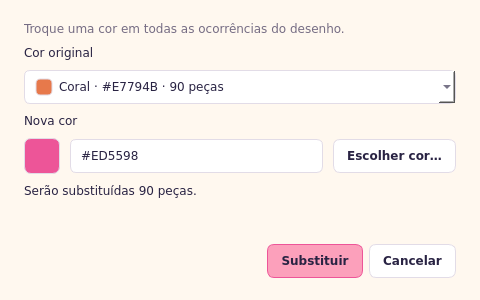
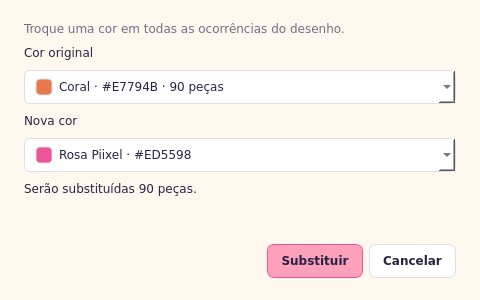
Usa dropdown de cores salvas como destino em Substituir cor
Nova cor agora oferece toda a paleta padrão e as cores personalizadas salvas, com nome, hexadecimal e amostra. A última opção permite escolher uma cor personalizada; cancelar o seletor restaura a seleção anterior e novas escolhas não são salvas automaticamente. A lista da cor original mantém cores e quantidades usadas no desenho.

Atualiza documentação e prévia do diálogo. Validação: 108 testes aprovados e fluxo real do popup pelo teclado, com troca e desfazer.

Changed region(s): [[0.0312, 0.45, 0.9688, 0.66]]

diff --git a/tests/test_paint_tools.py b/tests/test_paint_tools.py
@@ -10,11 +10,12 @@ import unittest
 from unittest.mock import patch
 
 from PySide6.QtCore import QPoint, QRect, Qt
+from PySide6.QtGui import QColor
 from PySide6.QtTest import QTest
 from PySide6.QtWidgets import QApplication, QDialog
 
 from piixelverso.app import MainWindow
-from piixelverso.atelier import AtelierModule, STYLE
+from piixelverso.atelier import AtelierModule, PALETTE, STYLE
 from piixelverso.format import encode_design, load_design
 from piixelverso.model import PixelDesign
 from piixelverso.preferences import PreferencesStore
@@ -80,6 +81,14 @@ class PaintToolsTests(unittest.TestCase):
         self.window.canvas.setFocus()
         self.app.processEvents()
         QTest.keyClick(self.window.canvas, key, modifiers)
+        self.app.processEvents()
+
+    def activate_custom_target(self, dialog):
+        index = dialog.target_combo.findText("Escolher cor personalizada…")
+        self.assertGreaterEqual(index, 0)
+        self.assertEqual(index, dialog.target_combo.count() - 1)
+        dialog.target_combo.setCurrentIndex(index)
+        dialog.target_combo.activated.emit(index)
         self.app.processEvents()
 
     def assert_counts(self, expected):
@@ -258,11 +267,12 @@ class PaintToolsTests(unittest.TestCase):
             self.assertGreaterEqual(source_index, 0)
             dialog.source_combo.setCurrentIndex(source_index)
             self.assertIn("3", dialog.preview_label.text())
-            dialog.target_edit.setText("inválida")
+            self.assertFalse(dialog.target_combo.isEditable())
+            dialog.target_combo.setCurrentIndex(-1)
             self.assertFalse(dialog.replace_button.isEnabled())
-            dialog.target_edit.setText(SOURCE)
+            dialog.target_combo.setCurrentIndex(dialog.target_combo.findData(SOURCE))
             self.assertFalse(dialog.replace_button.isEnabled())
-            dialog.target_edit.setText(TARGET.lower())
+            dialog.target_combo.setCurrentIndex(dialog.target_combo.findData(TARGET))
             self.app.processEvents()
             self.assertTrue(dialog.replace_button.isEnabled())
             self.assertEqual(dialog.source_color(), SOURCE)
@@ -283,11 +293,17 @@ class PaintToolsTests(unittest.TestCase):
         before = encode_design(self.window.design)
         palette = set(self.window._swatches)
         dialogs = []
+        chosen = []
 
         def cancel_dialog(dialog):
             dialogs.append(dialog)
             dialog.show()
-            dialog.target_edit.setText("#123ABC")
+            with patch("piixelverso.replace.QColorDialog.getColor",
+                       return_value=QColor("#123ABC")) as picker:
+                self.activate_custom_target(dialog)
+                picker.assert_called_once()
+            self.assertEqual(dialog.target_color(), "#123ABC")
+            chosen.append(dialog.target_color())
             self.app.processEvents()
             QTest.keyClick(dialog, Qt.Key.Key_Escape)
             self.app.processEvents()
@@ -299,10 +315,135 @@ class PaintToolsTests(unittest.TestCase):
                              Qt.MouseButton.LeftButton)
             self.app.processEvents()
         self.assertEqual(len(dialogs), 1)
+        self.assertEqual(chosen, ["#123ABC"])
         self.assertEqual(encode_design(self.window.design), before)
         self.assertEqual(set(self.window._swatches), palette)
         self.assertEqual(self.window.history.count(), 0)
         self.assertTrue(self.window.history.isClean())
+        self.assertFalse(self.settings_path.exists())
+
+    def test_target_dropdown_includes_the_palette_and_saved_custom_colors_unused_in_the_design(self):
+        named, unnamed = "#08AA22", "#5B51CC"
+        name = "<b>Verde & folhas</b> " + "muito longo " * 5
+        name = name[:80]
+        self.window.add_custom_color(named, name=name, persist=True)
+        self.window.add_custom_color(unnamed, persist=True)
+        self.window.add_custom_color("#112233")
+        saved = self.settings_path.read_bytes()
+        original = self.set_design(["SS.U", "S..."], {"U": "#334455"})
+        self.window.select_color(TARGET)
+        dialogs = []
+
+        def accept_saved_target(dialog):
+            dialogs.append(dialog)
+            dialog.show()
+            self.app.processEvents()
+            self.assertFalse(dialog.target_combo.isEditable())
+            self.assertEqual(dialog.target_color(), TARGET)
+            sources = {dialog.source_combo.itemData(i) for i in range(dialog.source_combo.count())}
+            self.assertEqual(sources, {SOURCE, "#334455"})
+            self.assertEqual(dialog.source_color(), SOURCE)
+            self.assertIn("3 peças", dialog.source_combo.currentText())
+            for label, color in PALETTE:
+                with self.subTest(color=color):
+                    index = dialog.target_combo.findData(color)
+                    self.assertGreaterEqual(index, 0)
+                    self.assertIn(label, dialog.target_combo.itemText(index))
+                    self.assertIn(color, dialog.target_combo.itemText(index))
+                    self.assertFalse(dialog.target_combo.itemIcon(index).isNull())
+            named_index = dialog.target_combo.findData(named)
+            self.assertGreaterEqual(named_index, 0)
+            self.assertIn(named, dialog.target_combo.itemText(named_index))
+            tooltip = dialog.target_combo.itemData(named_index, Qt.ItemDataRole.ToolTipRole)
+            self.assertIn("&lt;b&gt;Verde &amp; folhas&lt;/b&gt;", tooltip)
+            self.assertLessEqual(dialog.width(), 600)
+            unnamed_index = dialog.target_combo.findData(unnamed)
+            self.assertGreaterEqual(unnamed_index, 0)
+            self.assertIn(unnamed, dialog.target_combo.itemText(unnamed_index))
+            self.assertEqual(dialog.target_combo.findData("#112233"), -1)
+            self.assertEqual(dialog.target_combo.findData("#334455"), -1)
+            dialog.target_combo.setCurrentIndex(named_index)
+            self.assertTrue(dialog.replace_button.isEnabled())
+            QTest.mouseClick(dialog.replace_button, Qt.MouseButton.LeftButton)
+            self.app.processEvents()
+            return dialog.result()
+
+        with patch("piixelverso.atelier.ReplaceColorDialog.exec", new=accept_saved_target):
+            self.key(Qt.Key.Key_H, Qt.KeyboardModifier.ControlModifier)
+        self.assertEqual(len(dialogs), 1)
+        self.assert_counts({named: 3, "#334455": 1})
+        self.assertEqual(self.window.history.count(), 1)
+        self.assertEqual(self.settings_path.read_bytes(), saved)
+        self.window.undo()
+        self.assertEqual(self.window.design, original)
+        self.assertTrue(self.window.history.isClean())
+
+    def test_canceling_the_custom_target_picker_restores_the_previous_dropdown_choice(self):
+        self.set_design(["SS.T", "S..."])
+        self.window.select_color(TARGET)
+        before = encode_design(self.window.design)
+        palette = set(self.window._swatches)
+        dialogs = []
+        restored = []
+
+        def cancel_picker_then_dialog(dialog):
+            dialogs.append(dialog)
+            dialog.show()
+            self.app.processEvents()
+            original_source = dialog.source_color()
+            original_target = dialog.target_color()
+            with patch("piixelverso.replace.QColorDialog.getColor",
+                       return_value=QColor()) as picker:
+                self.activate_custom_target(dialog)
+                picker.assert_called_once()
+            self.assertEqual(dialog.source_color(), original_source)
+            self.assertEqual(dialog.target_color(), original_target)
+            self.assertEqual(dialog.target_combo.currentData(), TARGET)
+            self.assertTrue(dialog.replace_button.isEnabled())
+            restored.append(dialog.target_color())
+            dialog.reject()
+            return dialog.result()
+
+        with patch("piixelverso.atelier.ReplaceColorDialog.exec", new=cancel_picker_then_dialog):
+            self.key(Qt.Key.Key_H, Qt.KeyboardModifier.ControlModifier)
+        self.assertEqual(len(dialogs), 1)
+        self.assertEqual(restored, [TARGET])
+        self.assertEqual(encode_design(self.window.design), before)
+        self.assertEqual(set(self.window._swatches), palette)
+        self.assertEqual(self.window.history.count(), 0)
+        self.assertFalse(self.settings_path.exists())
+
+    def test_custom_target_can_choose_an_existing_color_without_duplicate_entries(self):
+        self.set_design(["SS.T", "S..."])
+        self.window.select_color(SOURCE)
+        dialogs = []
+
+        def choose_existing_target(dialog):
+            dialogs.append(dialog)
+            dialog.show()
+            self.app.processEvents()
+            self.assertFalse(dialog.replace_button.isEnabled())
+            original_count = dialog.target_combo.count()
+            with patch("piixelverso.replace.QColorDialog.getColor",
+                       return_value=QColor(TARGET.lower())) as picker:
+                self.activate_custom_target(dialog)
+                picker.assert_called_once()
+            self.assertEqual(dialog.target_combo.count(), original_count)
+            self.assertEqual(sum(dialog.target_combo.itemData(i) == TARGET
+                                 for i in range(dialog.target_combo.count())), 1)
+            self.assertEqual(dialog.source_color(), SOURCE)
+            self.assertEqual(dialog.target_color(), TARGET)
+            self.assertTrue(dialog.replace_button.isEnabled())
+            QTest.mouseClick(dialog.replace_button, Qt.MouseButton.LeftButton)
+            self.app.processEvents()
+            return dialog.result()
+
+        with patch("piixelverso.atelier.ReplaceColorDialog.exec", new=choose_existing_target):
+            self.key(Qt.Key.Key_H, Qt.KeyboardModifier.ControlModifier)
+        self.assertEqual(len(dialogs), 1)
+        self.assert_counts({TARGET: 4})
+        self.assertEqual(self.window.history.count(), 1)
+        self.assertFalse(self.settings_path.exists())
 
     def test_g_selects_the_bucket_exclusively_without_stealing_the_design_name(self):
         for key, tool in ((Qt.Key.Key_G, "bucket"), (Qt.Key.Key_B, "pencil"),

diff --git a/piixelverso/replace.py b/piixelverso/replace.py
@@ -7,8 +7,8 @@ from html import escape
 from PySide6.QtCore import QSize, Qt
 from PySide6.QtGui import QColor, QIcon, QPainter, QPen, QPixmap
 from PySide6.QtWidgets import (
-    QColorDialog, QComboBox, QDialog, QDialogButtonBox, QHBoxLayout,
-    QLabel, QLineEdit, QPushButton, QSizePolicy, QVBoxLayout,
+    QColorDialog, QComboBox, QDialog, QDialogButtonBox,
+    QLabel, QSizePolicy, QVBoxLayout,
 )
 
 from .model import PixelDesign, normalize_color
@@ -19,7 +19,8 @@ class ReplaceColorDialog(QDialog):
     """Collect RGB colors; the editor applies the replacement after acceptance."""
 
     def __init__(self, design: PixelDesign, color_names: Mapping[str, str],
-                 initial_target: str, parent=None):
+                 initial_target: str, parent=None, *,
+                 target_colors: Mapping[str, str] | None = None):
         super().__init__(parent)
         self.setWindowTitle("Substituir cor")
         self.setObjectName("replaceColorDialog")
@@ -27,6 +28,7 @@ class ReplaceColorDialog(QDialog):
         self.setMaximumWidth(600)
         self.resize(480, 300)
         self._design = design
+        self._color_names = color_names
         self._last_valid = PINK
         try:
             initial_target = normalize_color(initial_target) or ""
@@ -75,23 +77,30 @@ class ReplaceColorDialog(QDialog):
         layout.addWidget(self.source_combo)
 
         layout.addWidget(QLabel("Nova cor"))
-        target_row = QHBoxLayout()
-        target_row.setSpacing(10)
-        self.target_preview = QLabel()
-        self.target_preview.setObjectName("replacementTargetPreview")
-        self.target_preview.setFixedSize(36, 36)
-        self.target_preview.setAccessibleName("Prévia da nova cor")
-        target_row.addWidget(self.target_preview)
-        self.target_edit = QLineEdit(initial_target)
-        self.target_edit.setObjectName("replacementTarget")
-        self.target_edit.setAccessibleName("Código hexadecimal da nova cor")
-        self.target_edit.setPlaceholderText("#RRGGBB")
-        self.target_edit.setMaxLength(9)
-        target_row.addWidget(self.target_edit, 1)
-        self.choose_button = QPushButton("Escolher cor…")
-        self.choose_button.clicked.connect(self.choose_color)
-        target_row.addWidget(self.choose_button)
-        layout.addLayout(target_row)
+        self.target_combo = QComboBox()
+        self.target_combo.setObjectName("replacementTarget")
+        self.target_combo.setAccessibleName("Nova cor para substituir")
+        self.target_combo.setIconSize(QSize(18, 18))
+        self.target_combo.setMinimumContentsLength(20)
+        self.target_combo.setSizeAdjustPolicy(
+            QComboBox.SizeAdjustPolicy.AdjustToMinimumContentsLengthWithIcon
+        )
+        self.target_combo.setSizePolicy(QSizePolicy.Policy.Expanding, QSizePolicy.Policy.Fixed)
+        self.target_combo.view().setTextElideMode(Qt.TextElideMode.ElideRight)
+        self.target_combo.setPlaceholderText("Selecione uma cor")
+        self.target_combo.addItem("Escolher cor personalizada…", None)
+        for color, name in (target_colors if target_colors is not None else color_names).items():
+            value = normalize_color(color)
+            if value is not None:
+                self._add_target_color(value, name)
+        if initial_target:
+            index = self._add_target_color(initial_target, color_names.get(initial_target, "Personalizada"))
+            self.target_combo.setCurrentIndex(index)
+        elif self.target_combo.count() > 1:
+            self.target_combo.setCurrentIndex(0)
+        else:
+            self.target_combo.setCurrentIndex(-1)
+        layout.addWidget(self.target_combo)
 
         self.preview_label = QLabel()
         self.preview_label.setObjectName("replacementCount")
@@ -116,8 +125,31 @@ class ReplaceColorDialog(QDialog):
         layout.addWidget(self.buttons)
 
         self.source_combo.currentIndexChanged.connect(self._validate)
-        self.target_edit.textChanged.connect(self._validate)
+        self.target_combo.currentIndexChanged.connect(self._validate)
+        self.target_combo.activated.connect(self._target_activated)
         self._validate()
+
+    def _add_target_color(self, color: str, name: str) -> int:
+        """Insert before the custom-color action, reusing matching RGB entries."""
+        existing = self.target_combo.findData(color)
+        if existing >= 0:
+            return existing
+        name = name.strip()
+        short_name = self.target_combo.fontMetrics().elidedText(
+            name, Qt.TextElideMode.ElideRight, 240
+        )
+        text = f"{short_name} · {color}" if name else color
+        full_text = f"{name} · {color}" if name else color
+        index = self.target_combo.count() - 1
+        self.target_combo.insertItem(index, self._color_icon(color), text, color)
+        self.target_combo.setItemData(
+            index, f"<p>{escape(full_text)}</p>", Qt.ItemDataRole.ToolTipRole
+        )
+        return index
+
+    def _target_activated(self, _index: int):
+        if self.target_combo.currentData() is None:
+            self.choose_color()
 
     @staticmethod
     def _color_icon(color: str) -> QIcon:
@@ -138,9 +170,9 @@ class ReplaceColorDialog(QDialog):
         return value
 
     def target_color(self) -> str:
-        value = normalize_color(self.target_edit.text().strip())
+        value = normalize_color(self.target_combo.currentData())
         if value is None:
-            raise ValueError("Use uma cor no formato #RRGGBB.")
+            raise ValueError("Selecione uma nova cor ou escolha uma cor personalizada.")
         return value
 
     def _validate(self, *_args) -> bool:
@@ -158,18 +190,11 @@ class ReplaceColorDialog(QDialog):
             target = None
         if target is not None:
             self._last_valid = target
-            self.target_preview.setStyleSheet(
-                f"background: {target}; border: 1px solid {BORDER}; border-radius: 7px;"
-            )
-        else:
-            self.target_preview.setStyleSheet(
-                f"background: transparent; border: 1px dashed {BORDER}; border-radius: 7px;"
-            )
 
         if source is None:
             error = "Não há peças da cor selecionada para substituir."
         elif target is None:
-            error = "Use uma cor no formato #RRGGBB."
+            error = "Selecione uma nova cor ou escolha uma cor personalizada."
         elif source == target:
             error = "Escolha uma nova cor diferente da original."
         else:
@@ -181,15 +206,22 @@ class ReplaceColorDialog(QDialog):
         self.source_combo.setToolTip(
             self.source_combo.itemData(index, Qt.ItemDataRole.ToolTipRole) or ""
         )
+        self.target_combo.setToolTip(
+            self.target_combo.currentData(Qt.ItemDataRole.ToolTipRole) or ""
+        )
         return not error
 
     def choose_color(self):
         selected = QColorDialog.getColor(QColor(self._last_valid), self, "Escolher nova cor")
         if selected.isValid():
-            self.target_edit.setText(selected.name(QColor.NameFormat.HexRgb).upper())
+            value = selected.name(QColor.NameFormat.HexRgb).upper()
+            index = self._add_target_color(value, self._color_names.get(value, "Personalizada"))
+        else:
+            index = self.target_combo.findData(self._last_valid)
+        self.target_combo.setCurrentIndex(index)
 
     def accept(self):
         if not self._validate():
-            self.target_edit.setFocus(Qt.FocusReason.OtherFocusReason)
+            self.target_combo.setFocus(Qt.FocusReason.OtherFocusReason)
             return
         super().accept()

diff --git a/piixelverso/atelier.py b/piixelverso/atelier.py
@@ -504,7 +504,13 @@ class AtelierModule(QWidget):
         self.canvas.finish_stroke()
         if not self.design.counts():
             return
-        dialog = ReplaceColorDialog(self.design, self.color_names, self.canvas.color, self.window())
+        target_colors = dict(COLOR_NAMES)
+        for item in self.preferences.saved_colors():
+            target_colors[item.color] = item.name or COLOR_NAMES.get(item.color, "Personalizada")
+        dialog = ReplaceColorDialog(
+            self.design, self.color_names, self.canvas.color, self.window(),
+            target_colors=target_colors,
+        )
         if dialog.exec() == QDialog.DialogCode.Accepted:
             self.replace_color(dialog.source_color(), dialog.target_color())
 

diff --git a/README.md b/README.md
@@ -90,7 +90,7 @@ O branco é uma cor e conta como peça quando aplicado. Um quadradinho vazio é 
 
 Selecione **Balde de tinta** na barra ou pressione **G** e clique em uma célula para preencher a área da mesma cor ligada pelas laterais. Células que se tocam somente pela diagonal ficam separadas. O balde também preenche áreas vazias e funciona nas duas exibições de peças. Cada clique forma uma única ação de desfazer.
 
-Para trocar uma cor em todo o desenho, use **Editar → Substituir cor…** ou **Ctrl+H**. Escolha uma cor original entre as que já foram usadas e a nova cor, pelo código `#RRGGBB` ou pelo seletor. O diálogo mostra quantas peças serão alteradas antes de confirmar. A troca inclui regiões separadas e pode ser desfeita em uma única ação. A contagem por cor é atualizada, mantendo o total de peças. Uma nova cor de destino entra na paleta da sessão; use a opção de salvar cor se quiser guardá-la para próximas sessões.
+Para trocar uma cor em todo o desenho, use **Editar → Substituir cor…** ou **Ctrl+H**. Os dois campos são listas suspensas: **Cor original** reúne as cores usadas no desenho, com a quantidade de peças; **Nova cor** oferece toda a paleta padrão e as cores personalizadas salvas, com nome, código hexadecimal e amostra da cor. Para criar outra cor, selecione **Escolher cor personalizada…** no final da lista. Se cancelar o seletor, a escolha anterior é preservada. O diálogo mostra quantas peças serão alteradas antes de confirmar. A troca inclui regiões separadas e pode ser desfeita em uma única ação. A contagem por cor é atualizada, mantendo o total de peças. Uma nova cor de destino entra na paleta da sessão; use a opção de salvar cor se quiser guardá-la para próximas sessões.
 
 ![Substituir cor com prévia da quantidade de peças](docs/previa-substituir-cor.png)
 
